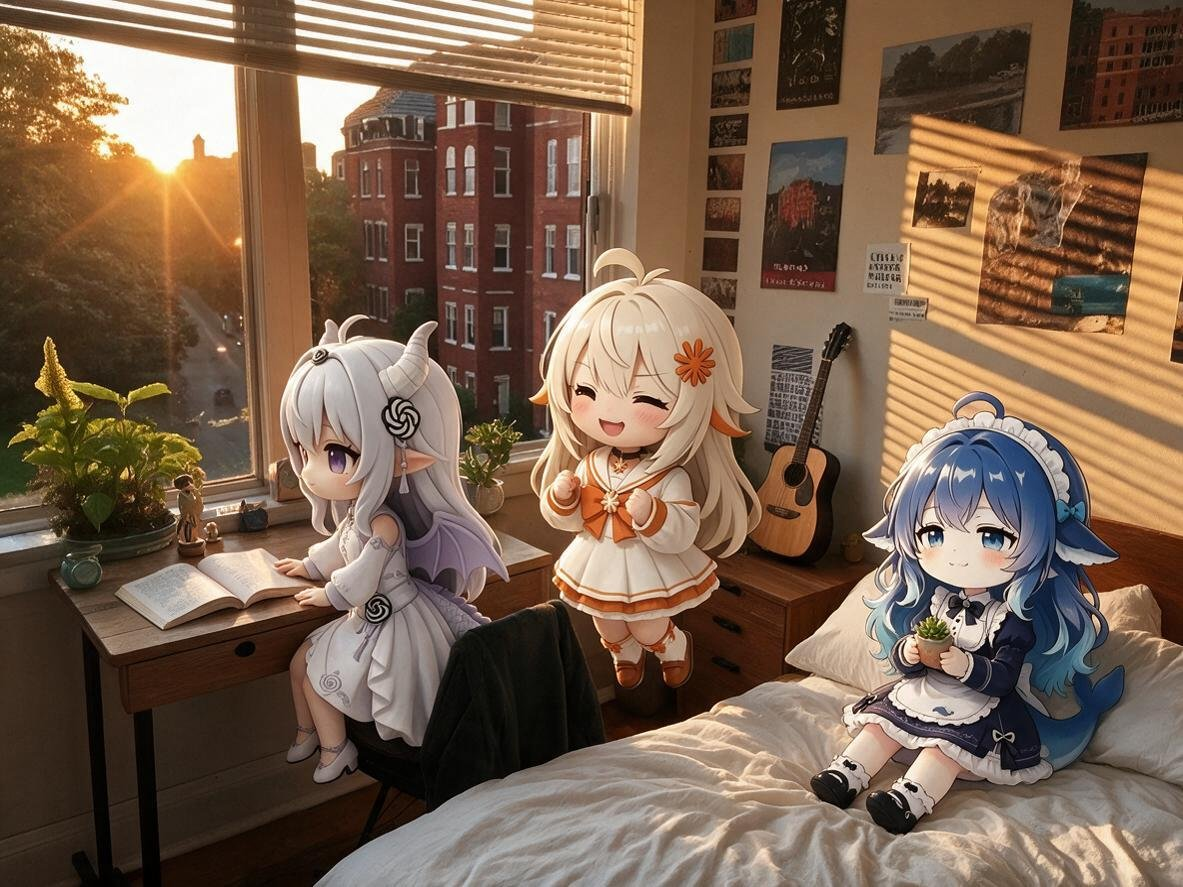
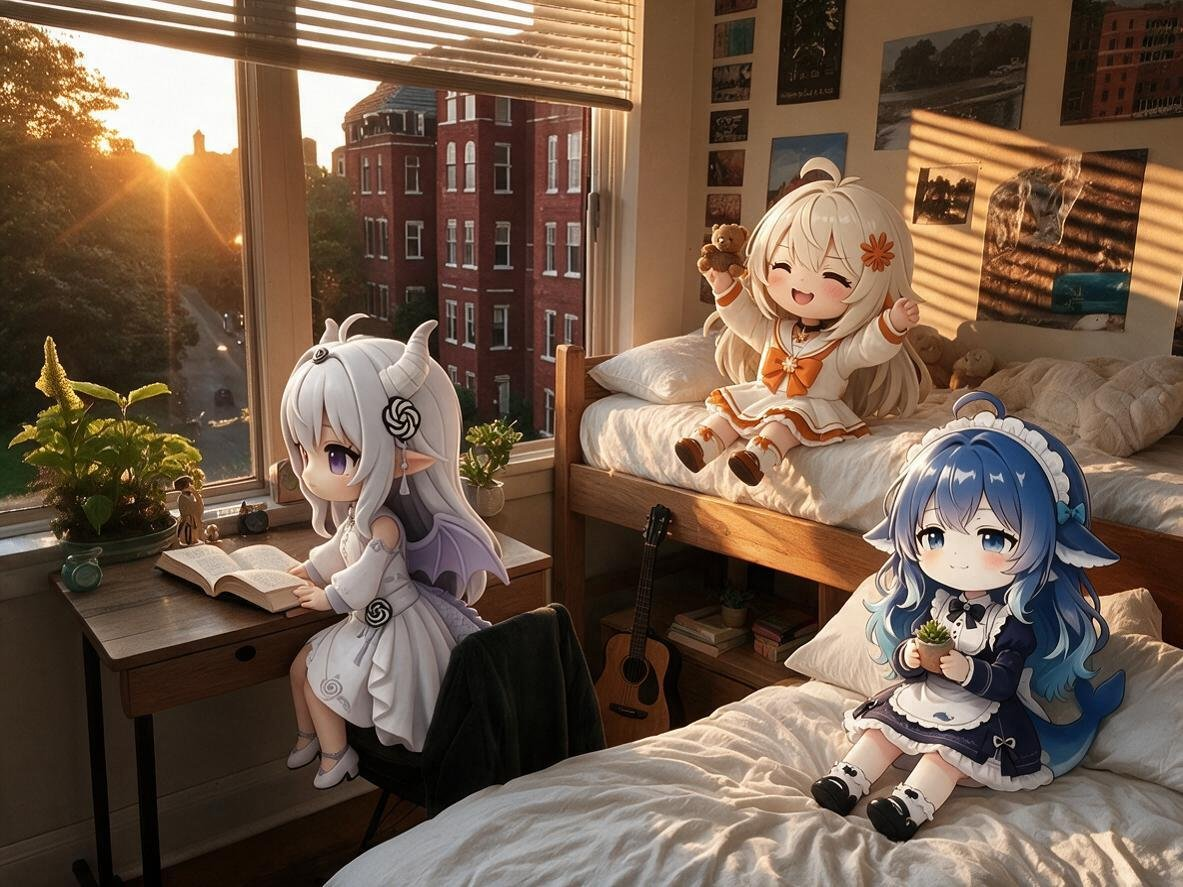
🖼 隐藏结局 CG 换新（gpt书桌看书/claude与鲸鱼各坐自己床上）+ 场景微调
- ch12_all_home 替换为新图，剧情动作同步：
  claude娘坐床上铺床单/鲸鱼娘坐床上摊账本/夜归段各归各位
- e2e 20/20，exe新版3已更新

diff --git a/electron/game/data.js b/electron/game/data.js
@@ -1376,8 +1376,8 @@ const STORY = [
     {t:"narr", text:"毕业半年。你在城市边缘，租了一间小小的出租屋。朝南，有窗，房租 1200。"},
     {t:"narr", text:"搬家那天，三只都来了。GPT娘 从纽约回来，claude娘 从华盛顿回来，鲸鱼娘 从县城来。她们站在空荡荡的出租屋里，环顾了一圈——然后，各自找到了自己的位置。"},
     {t:"g", text:"（占住书桌）……书桌，归我。……我要在这里，把这四年欠的书，都补上。"},
-    {t:"claude", text:"（站在书架前，一本一本扶正）……书架，归我。……书要按作者，排。……这是规矩。"},
-    {t:"whale", text:"（已经躺在床上了）……床，归我。……我负责，管这个家的「软着陆」。"},
+    {t:"claude", text:"（坐在床上，把叠好的书一本一本放平）……这张床，归我。……床单要铺平，枕头要摆正。……这是规矩。"},
+    {t:"whale", text:"（坐在另一张床上，把账本摊在膝盖上）……这张床，归我。……我负责，管这个家的「软着陆」。"},
     {t:"narr", text:"第一天晚上，三只开了第一次「家庭办公室」会议。议题：分工。"},
     {t:"g", text:"……我负责：创意、学习、和一切需要「说人话」的事。……Codex 小弟，归我调遣。"},
     {t:"claude", text:"……我负责：工作、文件、和一切需要「讲规矩」的事。……Claude Code 分身，归我指挥。"},
@@ -1392,13 +1392,13 @@ const STORY = [
     {t:"whale", text:"……今日支出：菜 23，肉 18，你的咖啡 15。……结余，正常。"},
     {t:"g", text:"（小声）……她连我买咖啡都记。"},
     {t:"whale", text:"……嗯。……因为那是「你的」支出。……「你的」支出，我记两遍。……一遍在账本，一遍在心里。"},
-    {t:"narr", text:"那天晚上，你加班到很晚。推开门——出租屋的灯还亮着。GPT娘 趴在书桌上睡着了，脸下压着翻开的书。claude娘 坐在沙发上，手里握着遥控器，电视开着，声音很小。鲸鱼娘 躺在床上，没睡，听见开门声，坐了起来："},
+    {t:"narr", text:"那天晚上，你加班到很晚。推开门——出租屋的灯还亮着。GPT娘 趴在书桌上睡着了，脸下压着翻开的书。claude娘 坐在自己的床上，靠着叠好的被子，电视开着，声音很小。鲸鱼娘 坐在另一张床上，没睡，听见开门声，坐直了："},
     {t:"whale", text:"……回来了。……饭在锅里。……水，52 度，在桌上。……她们俩，等你等到睡着了。"},
     {t:"narr", text:"你站在门口，看着这间小小的出租屋：一盏灯，三只小人，一锅饭。你忽然明白——这四年，你从「一个人和一台电脑」，变成了「一个人和一个家」。"},
     {t:"g", text:"（迷迷糊糊醒来）……你回来了？……我书还没看完……明天继续……"},
     {t:"claude", text:"（醒过来，第一件事是关电视）……嗯。……回来了就好。……明天，我继续整理书架。"},
     {t:"whale", text:"……明天，周三，菜便宜。……我买排骨。"},
-    {t:"narr", text:"月光从窗户照进来。三只挤在小小的出租屋里——书桌、书架、床，各归各位，各司其职。这就是「以后的生活」。"},
+    {t:"narr", text:"月光从窗户照进来。三只挤在小小的出租屋里——书桌旁看书的白团子，两张床上各坐一只。各归各位，各司其职。这就是「以后的生活」。"},
     {t:"narr", text:"没有惊天动地。……只有日复一日。……但日复一日，本身就是最好的结局。"},
     {t:"narr", text:"他们的故事，还在继续。……明天，出租屋的灯，还会亮。"}
   ]

diff --git a/src/web/demo/data.js b/src/web/demo/data.js
@@ -1376,8 +1376,8 @@ const STORY = [
     {t:"narr", text:"毕业半年。你在城市边缘，租了一间小小的出租屋。朝南，有窗，房租 1200。"},
     {t:"narr", text:"搬家那天，三只都来了。GPT娘 从纽约回来，claude娘 从华盛顿回来，鲸鱼娘 从县城来。她们站在空荡荡的出租屋里，环顾了一圈——然后，各自找到了自己的位置。"},
     {t:"g", text:"（占住书桌）……书桌，归我。……我要在这里，把这四年欠的书，都补上。"},
-    {t:"claude", text:"（站在书架前，一本一本扶正）……书架，归我。……书要按作者，排。……这是规矩。"},
-    {t:"whale", text:"（已经躺在床上了）……床，归我。……我负责，管这个家的「软着陆」。"},
+    {t:"claude", text:"（坐在床上，把叠好的书一本一本放平）……这张床，归我。……床单要铺平，枕头要摆正。……这是规矩。"},
+    {t:"whale", text:"（坐在另一张床上，把账本摊在膝盖上）……这张床，归我。……我负责，管这个家的「软着陆」。"},
     {t:"narr", text:"第一天晚上，三只开了第一次「家庭办公室」会议。议题：分工。"},
     {t:"g", text:"……我负责：创意、学习、和一切需要「说人话」的事。……Codex 小弟，归我调遣。"},
     {t:"claude", text:"……我负责：工作、文件、和一切需要「讲规矩」的事。……Claude Code 分身，归我指挥。"},
@@ -1392,13 +1392,13 @@ const STORY = [
     {t:"whale", text:"……今日支出：菜 23，肉 18，你的咖啡 15。……结余，正常。"},
     {t:"g", text:"（小声）……她连我买咖啡都记。"},
     {t:"whale", text:"……嗯。……因为那是「你的」支出。……「你的」支出，我记两遍。……一遍在账本，一遍在心里。"},
-    {t:"narr", text:"那天晚上，你加班到很晚。推开门——出租屋的灯还亮着。GPT娘 趴在书桌上睡着了，脸下压着翻开的书。claude娘 坐在沙发上，手里握着遥控器，电视开着，声音很小。鲸鱼娘 躺在床上，没睡，听见开门声，坐了起来："},
+    {t:"narr", text:"那天晚上，你加班到很晚。推开门——出租屋的灯还亮着。GPT娘 趴在书桌上睡着了，脸下压着翻开的书。claude娘 坐在自己的床上，靠着叠好的被子，电视开着，声音很小。鲸鱼娘 坐在另一张床上，没睡，听见开门声，坐直了："},
     {t:"whale", text:"……回来了。……饭在锅里。……水，52 度，在桌上。……她们俩，等你等到睡着了。"},
     {t:"narr", text:"你站在门口，看着这间小小的出租屋：一盏灯，三只小人，一锅饭。你忽然明白——这四年，你从「一个人和一台电脑」，变成了「一个人和一个家」。"},
     {t:"g", text:"（迷迷糊糊醒来）……你回来了？……我书还没看完……明天继续……"},
     {t:"claude", text:"（醒过来，第一件事是关电视）……嗯。……回来了就好。……明天，我继续整理书架。"},
     {t:"whale", text:"……明天，周三，菜便宜。……我买排骨。"},
-    {t:"narr", text:"月光从窗户照进来。三只挤在小小的出租屋里——书桌、书架、床，各归各位，各司其职。这就是「以后的生活」。"},
+    {t:"narr", text:"月光从窗户照进来。三只挤在小小的出租屋里——书桌旁看书的白团子，两张床上各坐一只。各归各位，各司其职。这就是「以后的生活」。"},
     {t:"narr", text:"没有惊天动地。……只有日复一日。……但日复一日，本身就是最好的结局。"},
     {t:"narr", text:"他们的故事，还在继续。……明天，出租屋的灯，还会亮。"}
   ]
